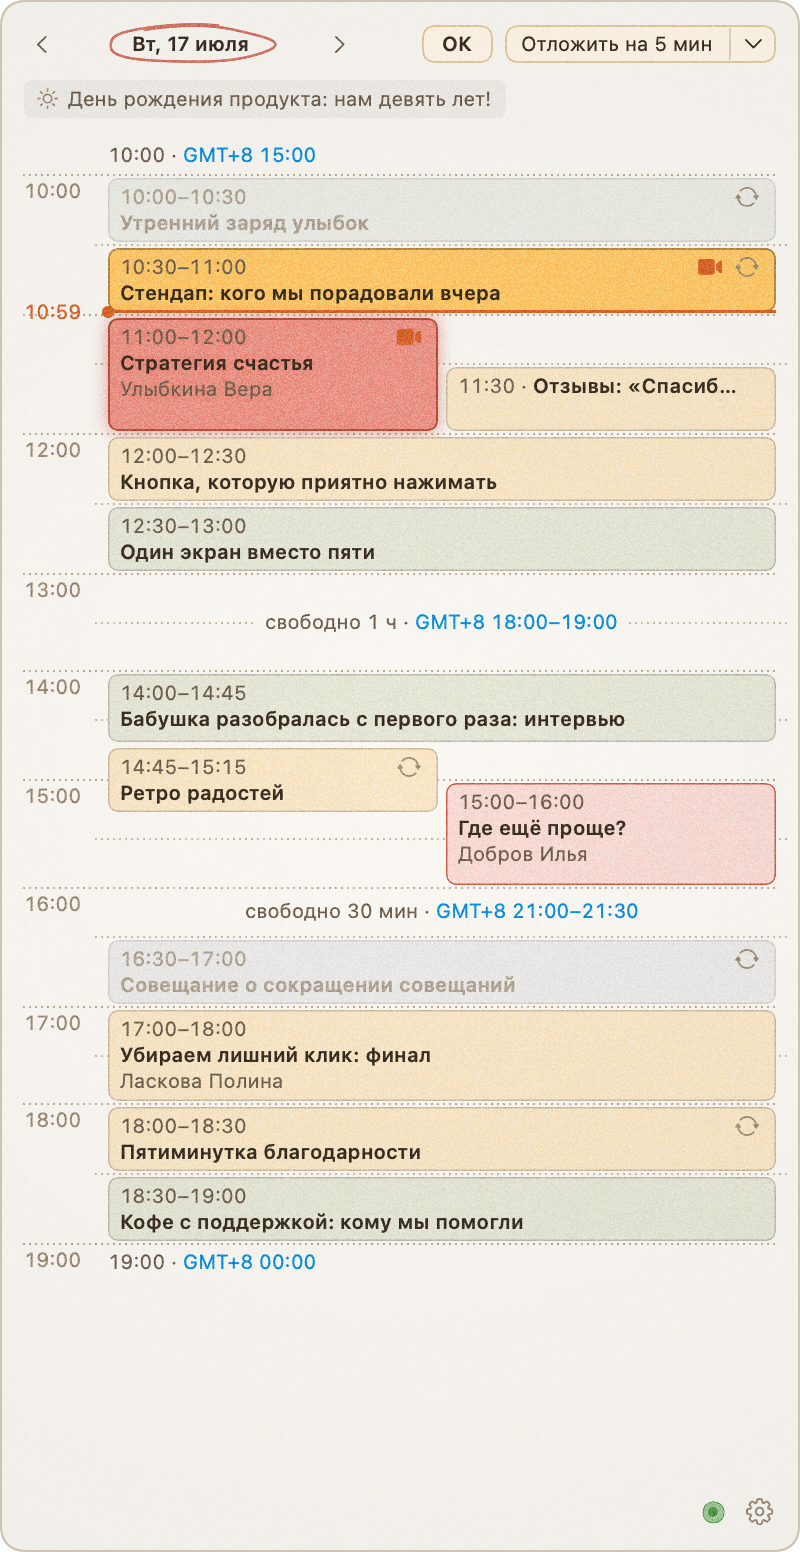
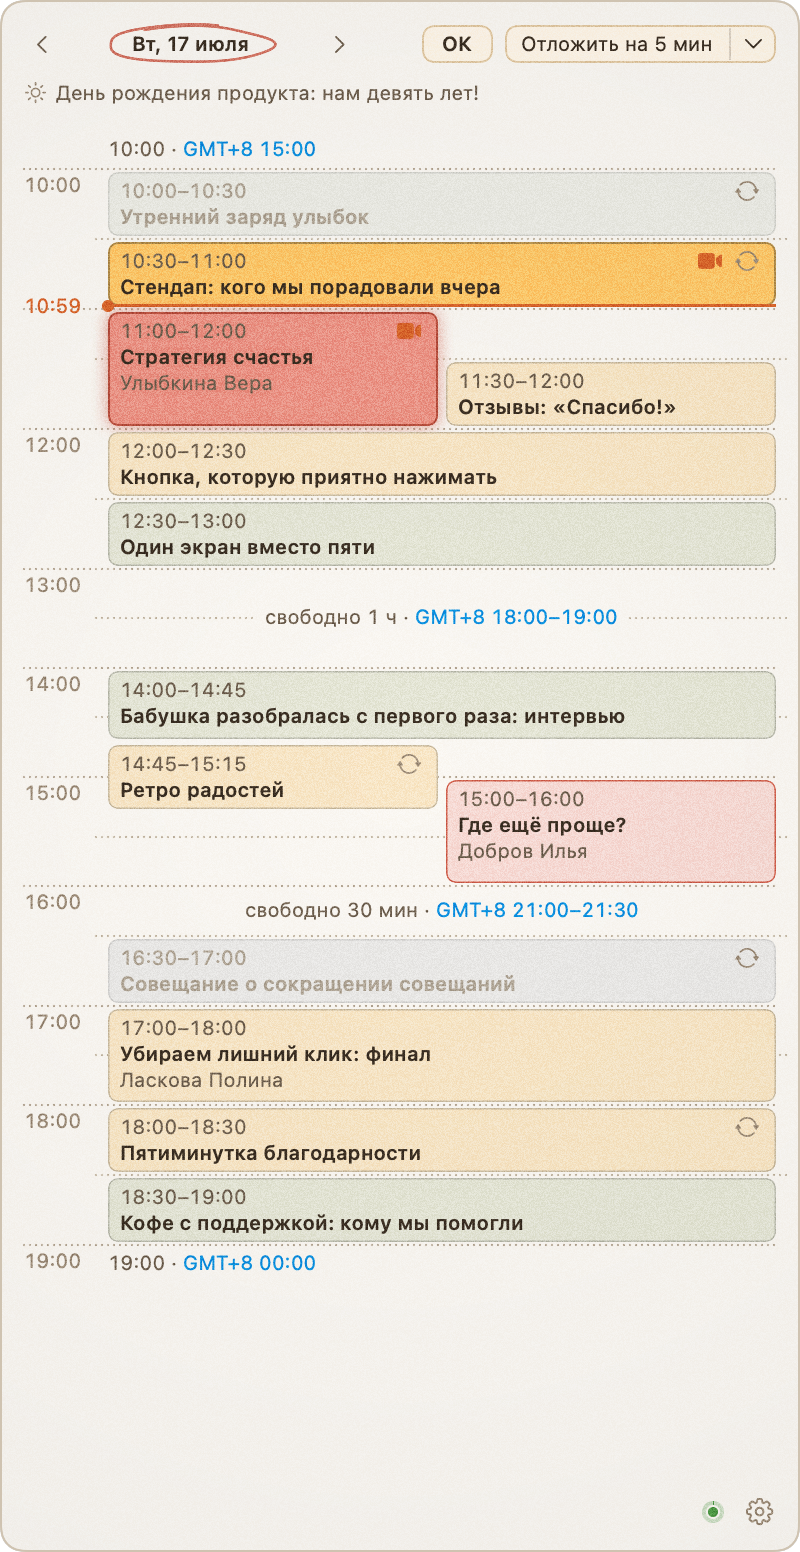
Индикатор связи: кольцо отсчёта заполняется по секунде, при обращении кружат две дуги
Точка цвета связи, в 1 pt от неё бледная дорожка в 2 pt. От 12 часов по часовой посекундно растёт
дуга цвета точки; пока идёт обращение к Exchange, по дорожке кружат две дуги по 60°.

Claude-Session: https://claude.ai/code/session_01SW6W8P3aC11VdsTxCJVhW8

diff --git a/Sources/Butler/Exchange.swift b/Sources/Butler/Exchange.swift
@@ -367,7 +367,7 @@ func color(_ light: Light) -> Color {
     }
 }
 
-/// Точка связи у шестерёнки: зелёная — все ящики ответили, красная и часто мигает — хоть один нет, серая —
+/// Точка связи у шестерёнки в кольце отсчёта: зелёная — все ящики ответили, красная и часто мигает — хоть один нет, серая —
 /// проверять нечего, на паузе — значок паузы. По щелчку — всплывашка со строкой на ящик, паузой и «Обновить сейчас».
 struct Indicator: View {
     @Bindable var app: App
@@ -382,22 +382,28 @@ struct Indicator: View {
                 Image(systemName: "pause.fill").font(.system(size: 8, weight: .bold)).foregroundStyle(Ink.alert)
                     .frame(width: 11, height: 11)
             } else {
-                // Ошибка — мигает быстро, чтобы заметить краем глаза: 0,3 с горит, 0,3 с гаснет.
-                // Пока идёт обращение к Exchange — плавно, в ожидании отсчёту хватает кадра в секунду.
-                TimelineView(.animation(minimumInterval: app.syncingSince != nil ? nil : light == .red ? 0.3 : 1)) { context in
+                // Ошибка — точка мигает быстро, чтобы заметить краем глаза: 0,3 с горит, 0,3 с гаснет. Пока идёт
+                // обращение к Exchange — плавно; отсчёту хватает четырёх кадров в секунду: шаг — ровно секунда.
+                TimelineView(.animation(minimumInterval: app.syncingSince != nil ? nil : 0.25)) { context in
                     let dim = light == .red && Int(context.date.timeIntervalSinceReferenceDate / 0.3) % 2 == 1
-                    // Колечко вплотную к точке — обратный отсчёт до следующей проверки: за минуту тает до одной
-                    // точки; пока идёт обращение, эта точка кружит вокруг, после него кольцо снова полное.
-                    let left = app.syncingSince != nil ? 0 : 1 - context.date.timeIntervalSince(app.polledAt ?? context.date) / pollInterval
-                    let turns = app.syncingSince.map { context.date.timeIntervalSince($0) } ?? 0
+                    // Кольцо в 1 pt от точки: бледная дорожка, по ней от 12 часов посекундно растёт дуга цвета
+                    // точки — отсчёт до следующей проверки. Пока идёт обращение, по дорожке кружат две дуги по 60°.
                     ZStack {
-                        // Тонкая рамка цвета точки — всегда на месте, отсчёт идёт внутри неё.
-                        Circle().stroke(color(light), lineWidth: 0.5).frame(width: 10.5, height: 10.5)
-                        Circle().trim(from: 0, to: max(left, 0.001)).rotation(.degrees(-90 + turns * 360))
-                            .stroke(color(light).opacity(0.5), style: StrokeStyle(lineWidth: 2.5, lineCap: .round))
-                            .frame(width: 7.5, height: 7.5)
+                        Circle().stroke(color(light).opacity(0.25), lineWidth: 2)
+                        if let since = app.syncingSince {
+                            let turns = context.date.timeIntervalSince(since)
+                            ForEach([0.0, 0.5], id: \.self) { start in
+                                Circle().trim(from: start, to: start + 1 / 6).stroke(color(light), lineWidth: 2)
+                                    .rotationEffect(.degrees(-90 + turns * 360))
+                            }
+                        } else {
+                            let elapsed = floor(context.date.timeIntervalSince(app.polledAt ?? context.date))
+                            Circle().trim(from: 0, to: min(elapsed / pollInterval, 1)).stroke(color(light), lineWidth: 2)
+                                .rotationEffect(.degrees(-90))
+                        }
                         Circle().fill(color(light)).frame(width: 5, height: 5).opacity(dim ? 0.15 : 1)
                     }
+                    .frame(width: 9, height: 9)
                     .frame(width: 11, height: 11)
                 }
             }

diff --git a/README.md b/README.md
@@ -99,7 +99,8 @@ server = mail.example.com
 - ‹ › листают месяцы, «Готово» или Escape возвращают к прежнему дню.
 
 **Связь с Exchange.** Точка у шестерёнки: зелёная — связь есть, красная и мигает — хотя бы один ящик
-не отвечает, серая — проверять нечего. Кольцо вокруг неё — отсчёт до следующей проверки. Щелчок по
+не отвечает, серая — проверять нечего. Кольцо вокруг неё — отсчёт до следующей проверки: от 12 часов
+по секунде заполняется цветом точки, а пока идёт обращение к Exchange, по нему кружат две дуги. Щелчок по
 точке показывает состояние каждого ящика, а у остановленного — кнопку «Проверить снова».
 
 Там же две кнопки. «Обновить сейчас» читает ящики сразу, не дожидаясь очередной проверки; срок,
